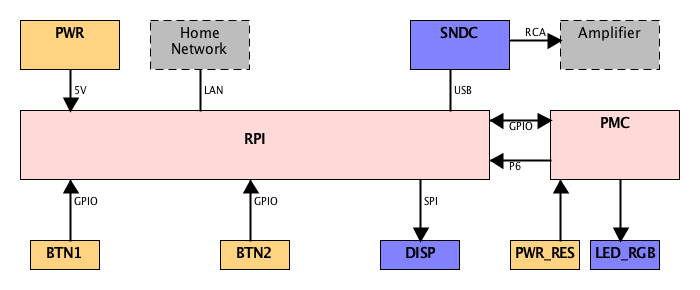
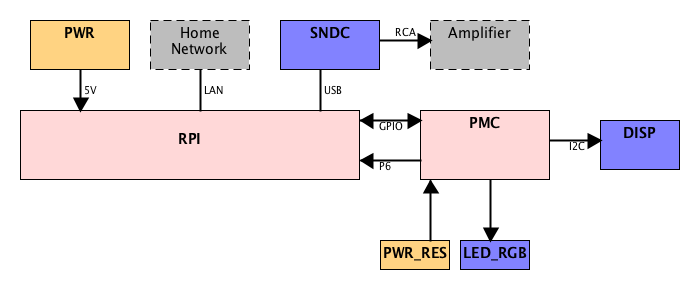
Updated Power Management Circuitry -> Peripheral Management Circuitry

diff --git a/PMC.md b/PMC.md
@@ -1,67 +1,96 @@
-## Power management circuitry
+## Peripheral management circuitry
+This circuitry forms an interface between the Raspberry Pi and the system's peripherals,
+adding specific behaviour for handling the reset button and controlling the status LEDs.
 
 ### Requirements
-The power management circuitry behaviour is conceived to fulfill the following needs:
+The peripheral management circuitry behaviour is conceived to fulfill the following needs:
 
 * First and foremost: provide user feedback
 * Power off the system
 * Restart the system
 * Use a single LED and color codes to indicate status
+* Wire up the circuitry required for the OLED Reset line.
 
 ### Behaviour
 
 * When the system is inactive (either due to shutdown or after plugging it in), the LED should be red.
 * When the system is booting into a usable state, or is shutting down, the LED should be yellow.
 * When the system is operational, the LED should be green.
-* When operational, the user should be able to shut down the system by holding the  **PWR_RES** button for a minimum amount of time.
-* When shut down, the user should be able to restart the system, without having to unplug it first, but again using the **PWR_RES** button.
+* When operational, the user should be able to shut down the system by holding the  **PWR\_RES** button for a minimum amount of time.
+* When shut down, the user should be able to restart the system, without having to unplug it first, but again using the **PWR\_RES** button.
 * When pressing this button, the LED should light up in purple as a confirmation that the system will be rebooted.
 
 ### The Circuit
 
-![Circuit](diagrams/PowerCircuitry.png)
+![Circuit](diagrams/PeripheralManagementCircuitry.png)
+
+<sub>(Circuit created using [Scheme-it][ref-scheme-it])</sub>
 
 #### Connections
+The circuit will be connected to the reset of the system:
 
-Name | In/Out |	Description
---- | ------ | ----------
-PWR_BTN | in | Connected to **PWR_RES**, a momentary switch
-RST_INB | in | Reset Inhibit. When high, pressing PWR_BTN will not result in a reset of the system
-LED_R_CTL | in | Controls the red LED. When high, the red LED will be *off*. Connected to GPIO.
-LED_G_CTL | in | Controls the green LED. When high, the green led wil be *on*. Connected to GPIO
-PWR_BTN_IN | out | Detects whether **PWR_RES** is pressed. Connected to GPIO.
-RST_RUN | out | Connected to P6.01 on the Raspberry Pi [P6 header](http://elinux.org/Rpi_Low-level_peripherals#P6_header).
-RST_GND | out | Connected to P6.02 of the P6 header
-LED_B, LED_R, LED_G | out | Constitute the blue, red and green LEDS of **LED_RGB**. They can be combined to produce the additional colors yellow and purple.
+*  **GPIO** pins on the Raspberry Pi. Note that the **BMC** numbering is used, **not** the BOARD numbering.
+*  **P6** reset pins
+*  Power button, a momentary switch.
+
+##### Input pins
+
+Name |	Description | Interface
+--- | ---------- | ------
+3V3 | Board power | GPIO 1
+GND | Board power | GPIO 6
+OLED\_CLK\_CTL | OLED I2C Clock | GPIO 3 (SCL)
+OLED\_DATA\_CTL | OLED I2C Data | GPIO 2 (SDA)
+OLED\_RES\_CTL | OLED Reset | GPIO 25
+RES\_BTN\_RUN, RES\_BTN\_GND | Used to reset the circuit | Connected to [**PWR_RES**][ref-block-diagram], depicted as S1 in the schema.
+RST\_INB | Reset Inhibit. Prevents the reset signal, shorting **RES\_BTN\_RUN** and **RES\_BTN\_GND** will *not* result in a reset of the system | GPIO 24 (together with **LED\_G\_CTL**)
+LED\_G\_CTL | Controls the green LED. When high, the green led wil be *on*. | GPIO 24 (together with **RST\_INB**)
+LED\_R\_CTL | Controls the red LED. When high, the red LED will be *off*. | GPIO 23
 
 
-#### Operation
-When the system is plugged in, **LED_R_CTL** will be low. **Q1** is saturated, causing the **LED_R** to be activated (red status LED). As soon as the system boots, the system software will activate **LED_G_CTL**, resulting in an yellow status LED (red + green = yellow). It will also set **RST_INB** high, causing **Q2** to cut off, so any current flow from **PWR_BTN** is directed to towards **PWR_BTN_IN**. The latter is protected by a pull down resistor **R8** to prevent inadvert signals.
 
-When the system has finished booting, the software will set **LED_R_CTL** high, cutting off **Q1**, thus deactivating **LED_R**, resulting in a green status LED.
+##### Output pins
 
-Software will monitor **PWR_BTN_IN**, provided **RST_INB** is high. When pressed for more than a three seconds, the system will set **LED_R_CTL** low, allowing current through **Q1**, and causing **LED_R** to light up, resulting in a yellow status LED. The system will then initiate a shut down sequence.
+Name | Description | Interface
+---- | ----------- | ------
+_OLED\_\<name\>_ | OLED connections | Connected to [**DISP**][ref-block-diagram].
+PWR\_RES\_STAT | Goes high whenever [**PWR_RES**][ref-block-diagram] is being pressed. | GPIO 18
+RST\_RUN, RST\_GND | When shorted, the Raspberry Pi will reset. | [P6.01 and P6.02 header pins, respectively](http://elinux.org/Rpi_Low-level_peripherals#P6_header).
+LED\_R, LED\_G, LED\_B, LED\_GND |  Constitute the blue, red and green LEDS of and RGB LED. They can be combined to produce the additional colors yellow and purple | Connected to [**LED_RGB**][ref-block-diagram]
 
-At the end of the shut down sequence, the system will be in idle state, with  **LED_R_CTL**, **LED_G_CTL** and **RST_INB** low, resulting in a red status LED and **Q2** in saturation. Pressing **PWR_BTN** will now allow a current flow towards **Q3** and **Q4**. The first will active the P6 header causing a system reboot, the second will light up the blue LED, causing a purple status LED (red + blue = purple), indicating feedback that the reset sequence will start.
+
+
+#### Power Status Operation
+When the system is plugged in, **LED\_R\_CTL** will be low. **Q1** is saturated, causing the **LED\_R** to be activated (red status LED). As soon as the system boots, the system software will activate **LED\_G\_CTL**, resulting in an yellow status LED (red + green = yellow). It will also set **RST\_INB** high, causing **Q2** to cut off, so any current flow between **RES\_BTN\_RUN** and **RES\_BTN\_GND** is directed to towards **PWR\_RES\_STAT**. The latter is protected by a pull down resistor **R8** to prevent inadvert signals.
+
+When the system has finished booting, the software will set **LED\_R\_CTL** high, cutting off **Q1**, thus deactivating **LED\_R**, resulting in a green status LED.
+
+Software will monitor **PWR\_RES\_STAT**, provided **RST\_INB** is high. When pressed for more than three seconds, the system will set **LED\_R\_CTL** low, allowing current through **Q1**, and causing **LED\_R** to light up, resulting in a yellow status LED. The system will then initiate a shut down sequence.
+
+At the end of the shut down sequence, the system will be in idle state, with  **LED\_R\_CTL**, **LED\_G\_CTL** and **RST\_INB** low, resulting in a red status LED and **Q2** in saturation. Pressing **PWR\_RES** will now allow a current flow towards **Q3** and **Q4**. The first will short **RST_RUN** and **RST_GND**, causing a system reboot, the second will light up the blue LED, causing a purple status LED (red + blue = purple), indicating feedback that the reset sequence will start.
 
 
 #### Parts list
 
 Part |	Description
 --- | ------ 
-R1 | 15k
+R1, R4, R6 | 2k2 0.25W 
 R2, R5 | 47k 0.25W
 R3 | 15k 0.25W
-R4, R6 | 2k2 0.25W 
 R7 | 4k7 0.25W
 R8 | 10k 0.25W
 Q1, Q2 | BC556
 Q3, Q4 | BC546
+S1 | Momentary switch
 
-Note: the resistors for the LEDs should not strictly form part of the circuitry, but are tuned specifically to combine the best color combinations for the particular RGB LED I'm using.
+Note: the resistors for the LEDs are tuned specifically to combine the best color combinations for the particular RGB LED I'm using.
+
 
 #### The Prototype
 With wires leading also to the Raspberry Pi GPIO (not depicted)
 
+
 ![PMC prototype](diagrams/PMCPrototype.jpg)
 
+[ref-block-diagram]: diagrams/generated/BlockDiagram.png
+[ref-scheme-it]: http://digikey.com/schemeit

diff --git a/README.md b/README.md
@@ -1,6 +1,6 @@
 # nemo
 
-** UPDATE: Added [Power Management Circuitry](PMC.md)**
+** UPDATE: Added [Peripheral Management Circuitry](PMC.md)**
 
 - - -
 ## The Concept
@@ -34,7 +34,7 @@ Nemo is conceived to fulfill the following needs:
 
 * Repurpose my [Raspberry Pi model B][ref-pi]
 * Good enough audio quality, but at least better than what's [built-in][ref-pi-audio]
-* The ability to gracefully power off the device (orderly shutdown of the [system software][ref-raspbian]). Although the Pi [draws relatively little power][ref-pi-power], it doesn't seem right to leave it powered on 24/7.
+* The ability to gracefully power off the device (orderly shutdown of the [system software][ref-raspbian]). Although the Pi [draws relatively little power][ref-pi-power], it makes no sense to leave it on 24/7 when not in use.
 * Feedback about operational state (booting, playing, powering off). A user should be able to see what's going on.
 * [RCA][ref-rca-jack] jack to connect it to standard stereo equipment.
 * LAN connection to easily hook it up to the home network (no Wi-Fi configuration troubles)
@@ -51,9 +51,7 @@ The following components are used:
 
 **PWR** - 5V power supply.
 
-**BTN_1** and **BTN_2** - Function buttons to control **DISP**
-
-**DISP** - A [128x128 pixel OLED][ref-oled] for displaying song and artist information
+**DISP** - A [128x64 pixel OLED][ref-oled] for displaying song and artist information
 
 **SNDC** - An [external USB sound card][ref-usb-sound], for "good enough" quality audio
 
@@ -61,7 +59,7 @@ The following components are used:
 
 **LED_RGB** - Status LED for system feedback, with support for red, yellow, green and purple colors. A single [RGB LED][ref-led] neatly fulfills this function.
 
-**PMC** - The [Power Management Circuitry](PMC.md), interfaces with the **RPI** and is responsible for making sure the LEDs have the right color and enabling the **PWR_RES** button depending on the system state.
+**PMC** - The [Peripheral Management Circuitry](PMC.md), interfaces with the **RPI** and is responsible for handling the LEDs, power button and the OLED display.
 
 - - - 
 
@@ -96,5 +94,5 @@ Follows
 [ref-pi-power]: http://www.pidramble.com/wiki/benchmarks/power-consumption
 [ref-rca-jack]: http://www.lifewire.com/rca-jack-definition-3134804
 [ref-usb-sound]: http://www.google.nl/search?q=HDE+7.1+channel+booster
-[ref-oled]: http://www.google.nl/search?q=128x128+OLED
+[ref-oled]: http://www.google.nl/search?q=128x64+OLED
 [ref-led]: http://www.google.nl/search?q=diffused+RGB+LED+5mm
